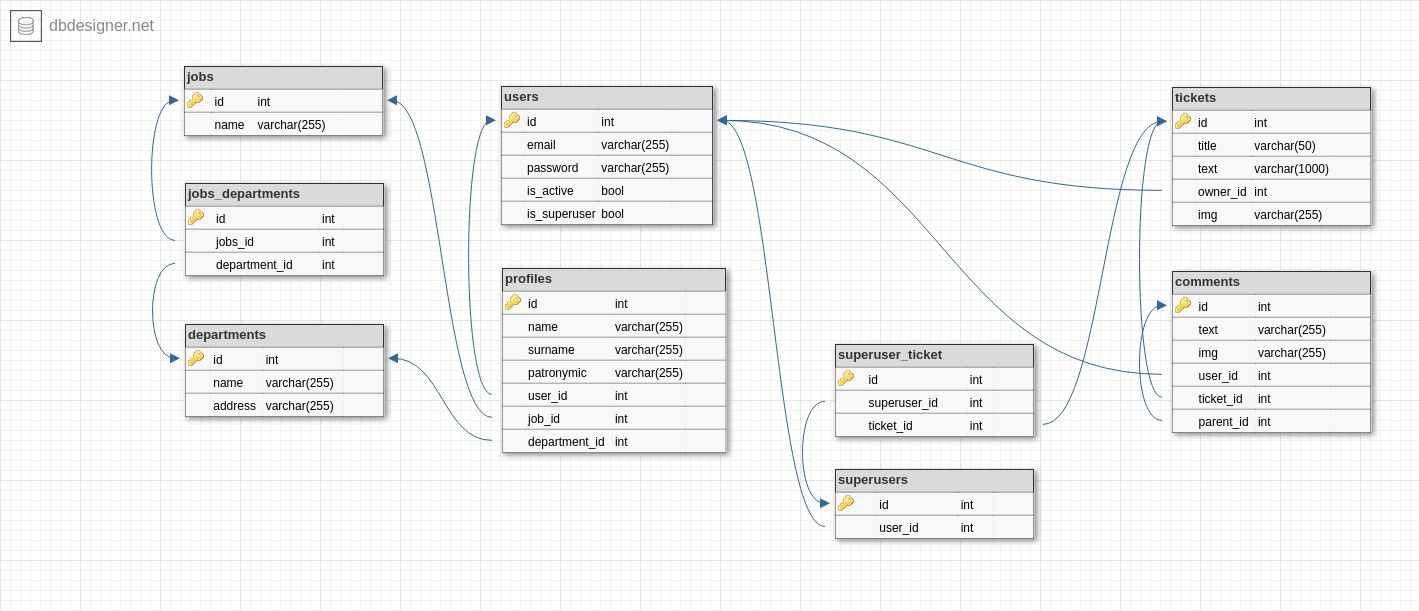
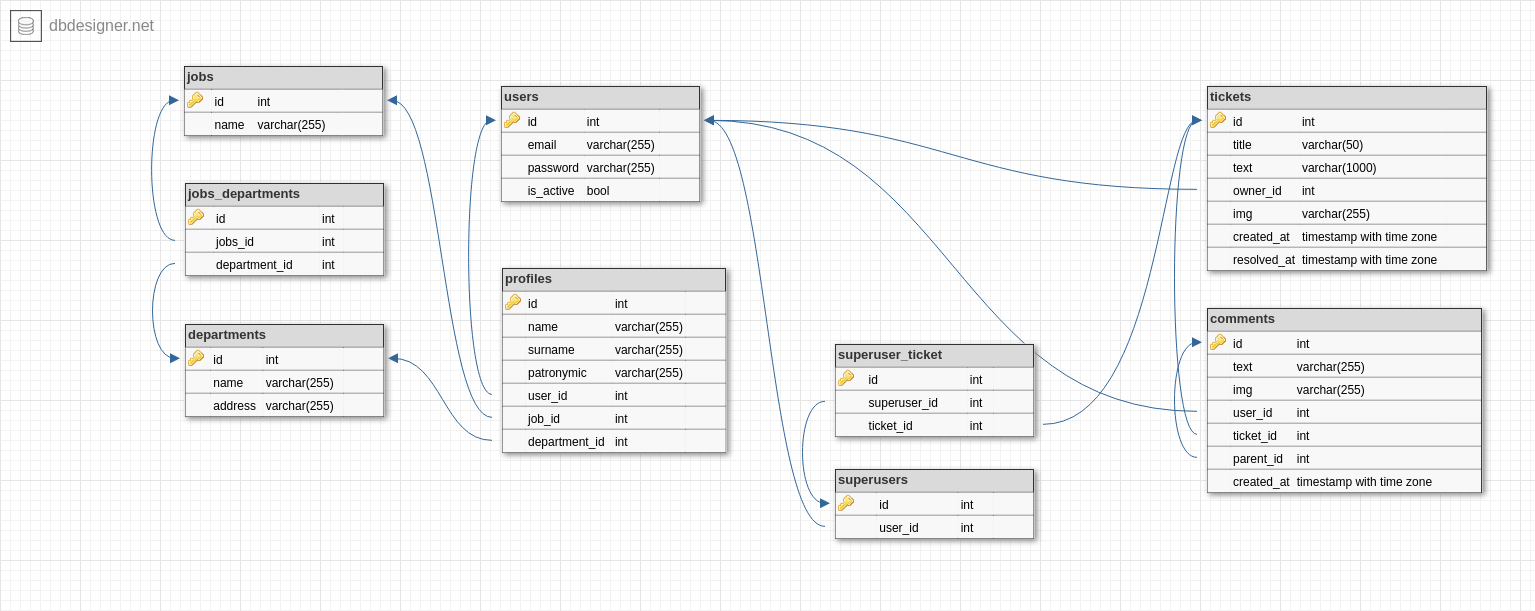
added timestamps for ticket and comment, removed bool is_superuser from user, updated schema in materials

Changed region(s): [[0.093, 0.0933, 0.9922, 0.9018], [0.0, 0.0311, 0.124, 0.0622], [0.7442, 0.4664, 0.7752, 0.4975]]

diff --git a/models.py b/models.py
@@ -1,4 +1,5 @@
-from sqlalchemy import Column, Integer, String, Boolean, ForeignKey, Table
+import datetime
+from sqlalchemy import Column, Integer, String, Boolean, ForeignKey, Table, DateTime
 from sqlalchemy.orm import relationship, backref
 
 from database import Base
@@ -11,6 +12,7 @@ JobDepartment = Table(
     Column('job_id', Integer, ForeignKey('jobs.id')),
     Column('department_id', Integer, ForeignKey('departments.id'))
 )
+
 
 class Job(Base):
     __tablename__ = 'jobs'
@@ -41,7 +43,7 @@ class User(Base):
     email = Column(String, nullable=False, unique=True, index=True)
     password = Column(String, nullable=False)
     is_active = Column(Boolean, default=True)
-    is_superuser = Column(Boolean, default=False)
+    # is_superuser = Column(Boolean, default=False)
 
     profile = relationship('Profile', back_populates='user')
     tickets = relationship('Ticket', back_populates='owner')
@@ -52,7 +54,7 @@ class Profile(Base):
     id = Column(Integer, primary_key=True, index=True)
     name = Column(String(20))
     surmane = Column(String(30))
-    patronymic = Column(String(20))
+    patronymic = Column(String(20), nullable=True)
     user_id = Column(ForeignKey('users.id'))
     job_id = Column(Integer, ForeignKey('jobs.id'))
     department_id = Column(Integer, ForeignKey('jobs.id'))
@@ -80,9 +82,11 @@ class Ticket(Base):
     id = Column(Integer, primary_key=True, index=True)
     title = Column(String(50))
     text = Column(String(1000))
-    image = Column(String(1000))
+    image = Column(String(1000), nullable=True)
     owner_id = Column(Integer, ForeignKey('users.id'))
-    
+    created_at = Column(DateTime, default=datetime.datetime.utcnow)
+    resolved_at = Column(DateTime, nullable=True, default=None)
+
     owner = relationship("User", back_populates="tickets")
     superusers = relationship(
         'Superuser',
@@ -96,10 +100,11 @@ class Comment(Base):
     __tablename__ = 'comments'
     id = Column(Integer, primary_key=True, index=True)
     text = Column(String(1000))
-    image = Column(String(1000))
+    image = Column(String(1000), nullable=True)
     user_id = Column(ForeignKey('users.id'))
     ticket_id = Column(Integer, ForeignKey('tickets.id'))
     parent_id = Column(Integer, ForeignKey('comments.id'))
+    created_at = Column(DateTime, default=datetime.datetime.utcnow)
 
     user = relationship('User', backref='comments')
     ticket = relationship('Ticket', back_populates='comments')
